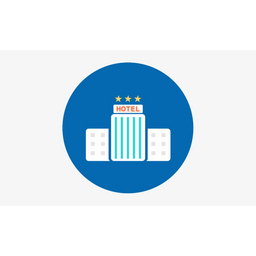
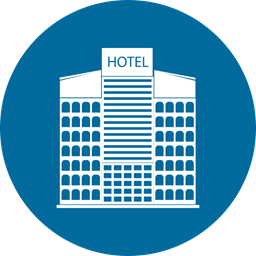
feat: add corporate related securities

diff --git a/hotel_management/__manifest__.py b/hotel_management/__manifest__.py
@@ -1,8 +1,8 @@
 {
     'name': 'Hotel Management',
-    'version': '18.0.1.6.9',
+    'version': '18.0.1.7.0',
     'category': 'Services',
-    'summary': 'Reservations, rooms, housekeeping, F&B, events, guest portal',
+    'summary': 'Reservations, rooms, housekeeping, F&B, events, corporate, guest portal',
     'depends': ['base', 'mail', 'website', 'portal', 'account', 'calendar'],
     'data': [
         'security/hotel_security.xml',
@@ -21,6 +21,7 @@
         'views/hotel_dashboard_views.xml',
         'views/hotel_venue_views.xml',
         'views/hotel_event_views.xml',
+        'views/hotel_corporate_views.xml',
         'views/hotel_menus.xml',
         'views/website_templates.xml',
     ],

diff --git a/hotel_management/models/hotel_event.py b/hotel_management/models/hotel_event.py
@@ -61,7 +61,7 @@ class HotelEvent(models.Model):
         default=lambda self: self.env.user, tracking=True,
     )
     
-        billing_mode = fields.Selection(
+    billing_mode = fields.Selection(
         [('guest', 'Billed to Guest / Organizer'),
          ('corporate', 'Billed to Company')],
         default='guest', required=True, tracking=True,
